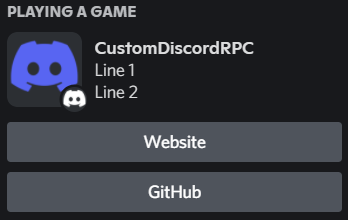
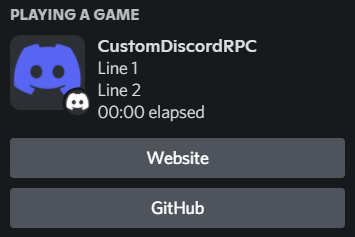
Add Timestamp

diff --git a/src/Configuration.cs b/src/Configuration.cs
@@ -14,6 +14,7 @@ namespace CustomDiscordRPC
         public static string ClientID;
         public static string Details;
         public static string State;
+        public static string Timestamp;
 
         public static string LargeImageKey;
         public static string LargeImageText;
@@ -46,6 +47,7 @@ namespace CustomDiscordRPC
             ClientID = data.GetKey("ClientID");
             Details = data.GetKey("Details");
             State = data.GetKey("State");
+            Timestamp = data.GetKey("Timestamp");
             LargeImageKey = data.GetKey("LargeImageKey");
             LargeImageText = data.GetKey("LargeImageText");
             SmallImageKey = data.GetKey("SmallImageKey");

diff --git a/src/Discord.cs b/src/Discord.cs
@@ -22,6 +22,8 @@ namespace CustomDiscordRPC
             var presence = new RichPresence();
             if (!String.IsNullOrEmpty(Configuration.Details)) presence.Details = Configuration.Details;
             if (!String.IsNullOrEmpty(Configuration.State)) presence.State = Configuration.State;
+            Boolean.TryParse(Configuration.Timestamp, out bool timestamp);
+            if (timestamp) presence.Timestamps = new Timestamps() { Start = DateTime.UtcNow };
             if (!String.IsNullOrEmpty(Configuration.LargeImageKey) ||
                 !String.IsNullOrEmpty(Configuration.LargeImageText) ||
                 !String.IsNullOrEmpty(Configuration.SmallImageKey) ||

diff --git a/src/menu/items/AutoStart.cs b/src/menu/items/AutoStart.cs
@@ -11,7 +11,7 @@ namespace CustomDiscordRPC
         public AutoStart() : base("Auto Start", null, OnClick)
         {
             var key = Registry.CurrentUser.OpenSubKey(@"SOFTWARE\Microsoft\Windows\CurrentVersion\Run", true);
-            Checked = !String.IsNullOrEmpty(key.GetValue("CustomDiscordRPC", "").ToString());
+            Checked = key.GetValue("CustomDiscordRPC", "").ToString().Equals(Application.ExecutablePath);
             key.Close();
         }
 

diff --git a/src/Updater.cs b/src/Updater.cs
@@ -27,7 +27,7 @@ namespace CustomDiscordRPC
                 var bytes = await client.GetByteArrayAsync(url);
                 var file = Path.Combine(Path.GetTempPath(), Guid.NewGuid().ToString() + ".exe");
                 File.WriteAllBytes(file, bytes);
-                Process.Start(file);
+                Process.Start(file, "/VERYSILENT");
                 Application.Exit();
             }
         }

diff --git a/README.md b/README.md
@@ -56,6 +56,7 @@ SmallImageText=PryosCode
 ClientID=638034914398175233
 Details=Line 1
 State=Line 2
+Timestamp=true
 LargeImageKey=discord-color
 LargeImageText=CustomDiscordRPC
 SmallImageKey=discord-white
